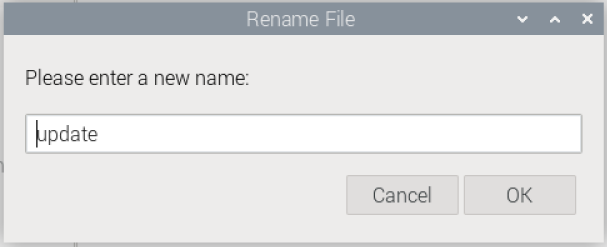
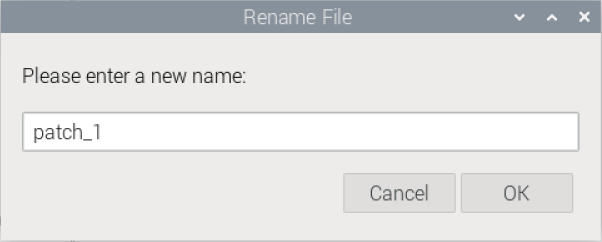
image and text changes

diff --git a/patch_1/README.md b/patch_1/README.md
@@ -38,7 +38,7 @@ Close your web browser.
 
 ![img_07](../images/RPi_imager_07.PNG)
 
-10. Double click on the downloaded zip file **UKradioastro UKRAA_PicoMuon main update.zip**.  This will open the RPi **xarchiver** utility.
+10. Double click on the downloaded zip file **UKradioastro UKRAA_PicoMuon main patch_1.zip**.  This will open the RPi **xarchiver** utility.
 
 ![img_08](../images/RPi_imager_08.PNG)
 
@@ -56,13 +56,13 @@ Close the RPi xarchiver utility.
 
 ![img_11](../images/RPi_imager_11.PNG)
 
-14. Select **UKradioastro UKRAA_PicoMuon main update** folder and rename **update** (Right click mouse to bring up function).
+14. Select **UKradioastro UKRAA_PicoMuon main patch_1** folder and rename **patch_1** (Right click mouse to bring up function).
 
 ![img_12](../images/RPi_imager_12.PNG)
 
-15. Select the **update** folder and copy (Right click mouse to bring up function).
+15. Select the **patch_1** folder and copy (Right click mouse to bring up function).
 
-16. Navigate to the PicoMuon directory, **/home/pi/UKRAA_PicoMuon**, and paste the **update** folder
+16. Navigate to the PicoMuon directory, **/home/pi/UKRAA_PicoMuon**, and paste the **patch_1** folder
 
 ![img_14](../images/RPi_imager_14.PNG)
 
@@ -70,12 +70,12 @@ Close the **File Manager** window
 
 17. Open a terminal window and type the following command and press enter
 ```
-cd ~/UKRAA_PicoMuon/update
+cd ~/UKRAA_PicoMuon/patch_1
 ```
 
 ![img_15](../images/RPi_imager_15.PNG)
 
-This will take you to the **update** directory inside **/home/pi/UKRAA_PicoMuon**
+This will take you to the **patch_1** directory inside **/home/pi/UKRAA_PicoMuon**
 
 18. Type the following command and press enter
 ```
@@ -84,23 +84,26 @@ chmod +x *.sh
 
 ![img_16](../images/RPi_imager_16.PNG)
 
-This will make the **update.sh** script executable.
+This will make the **patch_1.sh** script executable.
 
 
 19. Type the following command and press enter
 ```
-sudo bash update.sh
+sudo bash patch_1.sh
 ```
 
 ![img_17](../images/RPi_imager_17.PNG)
 
-This will run the update script.
+This will run the patch script.
+The patch script will take about 90 minutes on a Raspberry Pi 4 and about 20 minutes on a Raspberry Pi 5.
 
 20. That's it!  You should see the following...
 
 ![img_25](../images/RPi_imager_25.PNG)
 
-The updated code is now set; it will get the data from the detector, process yesterdays data, plot yesterdays data and post yesterdays plots to your intranet web page once per day, at 9.30am in the morning.
+The patch is now set; it will populate correct NMDB data for 26th July 2025 and process the day data for 26th July 2025.
+No changes have been made to the week or month data files.
+As these are next processed you should see corrected data in these plots when they are posted to your intranet web page at 9.30am in the morning.
 
 
 &nbsp;
